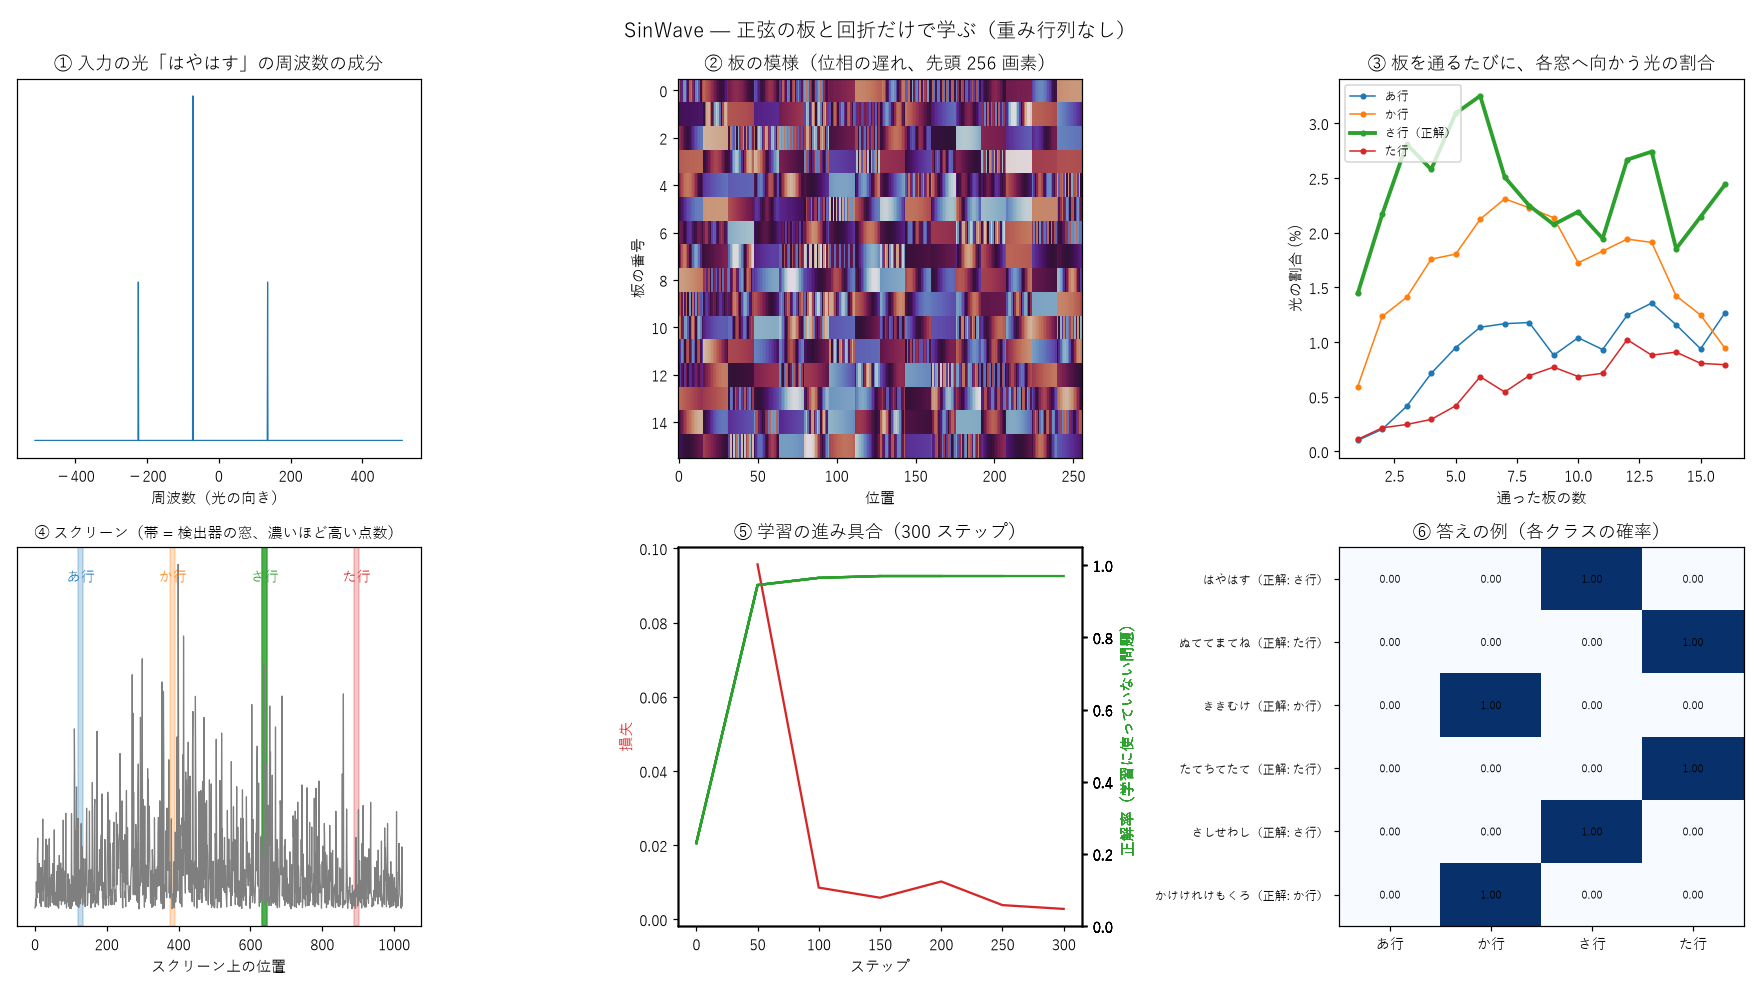
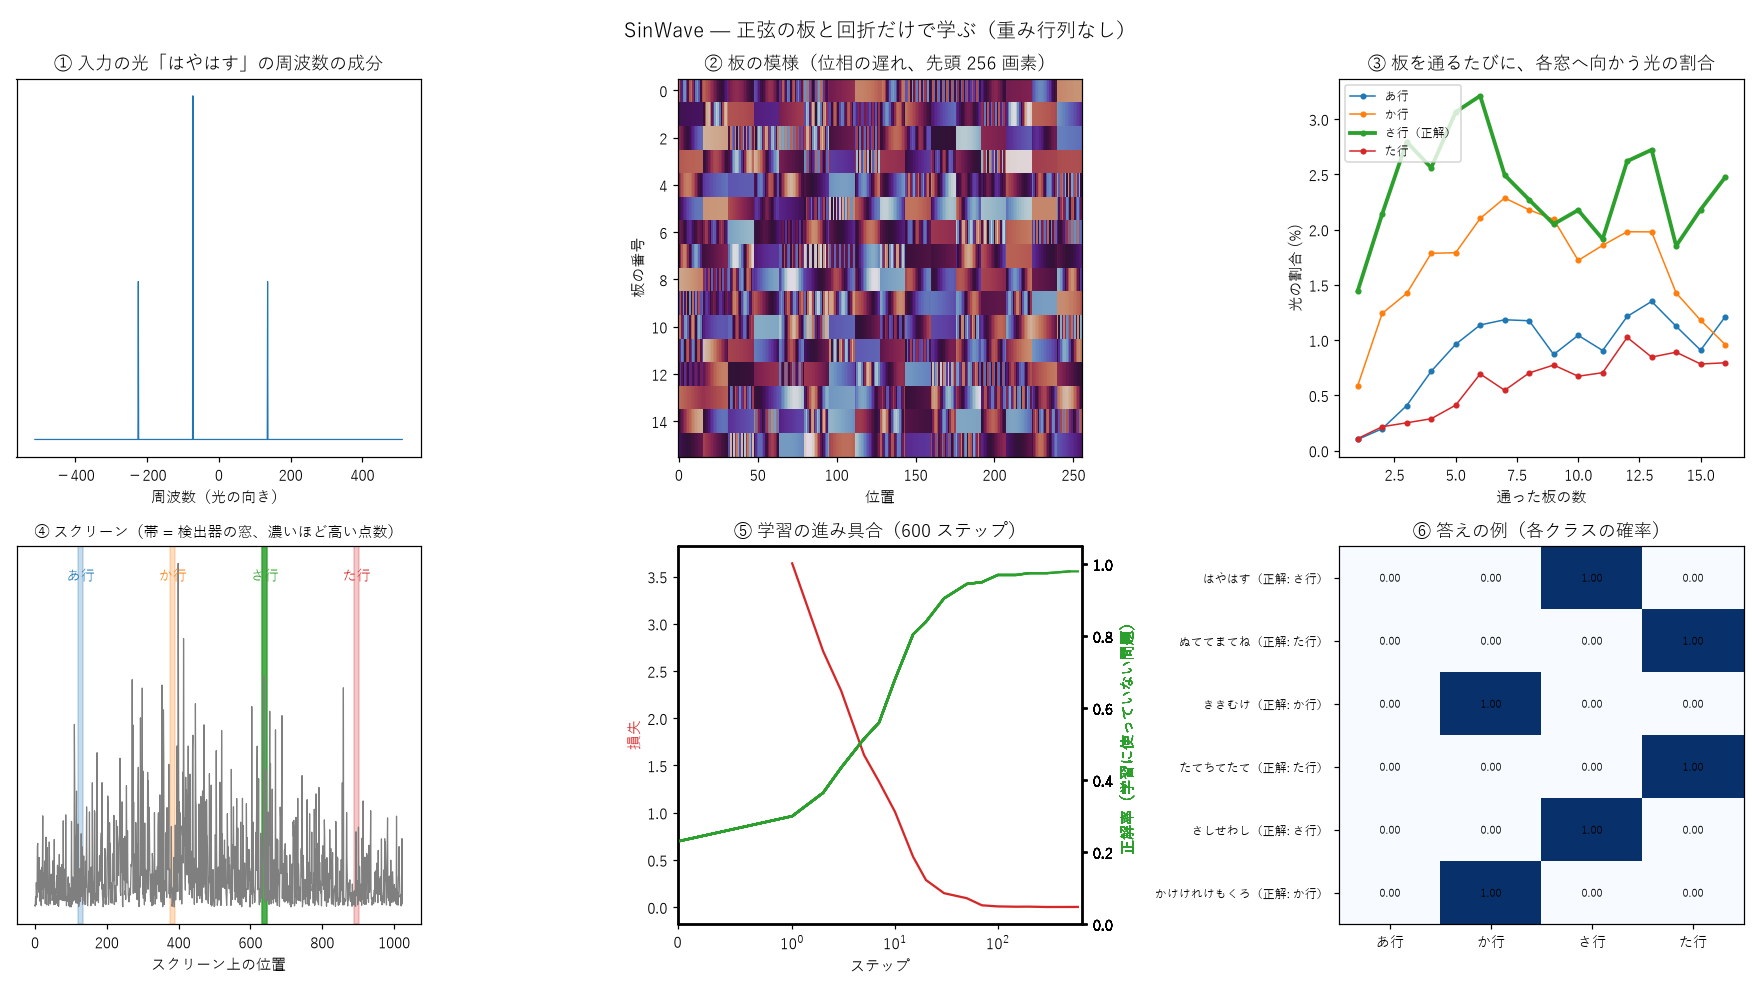
可視化: 絵の更新を対数の間隔にし、学習曲線の横軸を対数にする（最初の 100 ステップを細かく見る）

diff --git a/examples/visualize.py b/examples/visualize.py
@@ -53,7 +53,7 @@ def japanese_font():
     print("日本語のフォントが見つからないので、文字が四角になるかもしれない")
 
 
-def draw(fig, axes, net, sample_text, sample_label, history, test, step):
+def draw(fig, axes, net, sample_text, sample_label, history, test, step, log_x=True):
     import numpy as np
     for ax in axes.flat:
         ax.clear()
@@ -118,6 +118,9 @@ def draw(fig, axes, net, sample_text, sample_label, history, test, step):
         ax2.plot(history["step"], history["acc"], color="tab:green", label="正解率")
         ax2.set_ylim(0, 1.05)
         ax2.set_ylabel("正解率（学習に使っていない問題）", color="tab:green")
+        if log_x:
+            ax.set_xscale("symlog", linthresh=1)   # 対数の目盛り（0 も描けるよう 0〜1 だけは等間隔）
+            ax.set_xlim(0, max(history["step"][-1], 1) * 1.1)
     ax.set_title(f"⑤ 学習の進み具合（{step} ステップ）")
     ax.set_xlabel("ステップ")
 
@@ -138,10 +141,24 @@ def draw(fig, axes, net, sample_text, sample_label, history, test, step):
     fig.tight_layout()
 
 
+def draw_steps(steps, every):
+    """絵を更新するステップ。"log" なら 1, 1.5, 2, 3, 5, 7 × 10^k（学習は最初の 100 ステップでほぼ決まるので、そこを細かく見る）。"""
+    if every == "log":
+        marks = {0, steps}
+        k = 1
+        while k <= steps:
+            for m in (1, 1.5, 2, 3, 5, 7):
+                if m * k <= steps:
+                    marks.add(int(m * k))
+            k *= 10
+        return marks
+    return set(range(0, steps, int(every))) | {steps}
+
+
 def main():
     ap = argparse.ArgumentParser()
     ap.add_argument("--steps", type=int, default=600)
-    ap.add_argument("--every", type=int, default=50, help="何ステップごとに絵を更新するか")
+    ap.add_argument("--every", default="log", help="絵を更新する間隔: log（最初は細かく、だんだん粗く: 0,1,2,3,5,7,10,15,20,30,50,…）か、ステップ数（例 50）")
     ap.add_argument("--mix", default="coh", help="文字どうしの合わせ方 coh / rainbow / color（rainbow, color は計算が重い）")
     ap.add_argument("--L", type=int, default=1024)
     ap.add_argument("--save", default="", help="最後の絵を保存するファイル名 (.png)")
@@ -172,13 +189,15 @@ def main():
         plt.show()
     sample_text, sample_label = test[0]
 
+    marks = draw_steps(a.steps, a.every)
+    log_x = a.every == "log"
     for step in range(a.steps + 1):
-        if step % a.every == 0 or step == a.steps:
+        if step in marks:
             acc = sum(p == y for p, (_, y) in zip(sw.predict(net, [t for t, _ in test]), test)) / len(test)
             history["step"].append(step)
             history["acc"].append(acc)
             history["loss"].append(loss.item() if step else float("nan"))
-            draw(fig, axes, net, sample_text, sample_label, history, test, step)
+            draw(fig, axes, net, sample_text, sample_label, history, test, step, log_x)
             if not a.no_show:
                 plt.pause(0.01)
             if a.gif:
